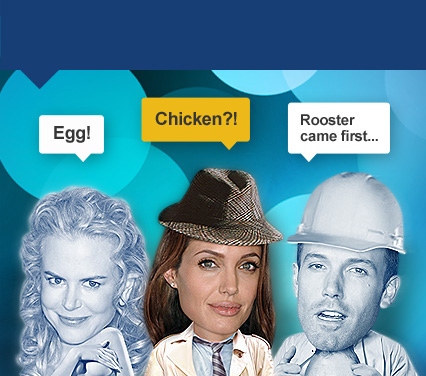
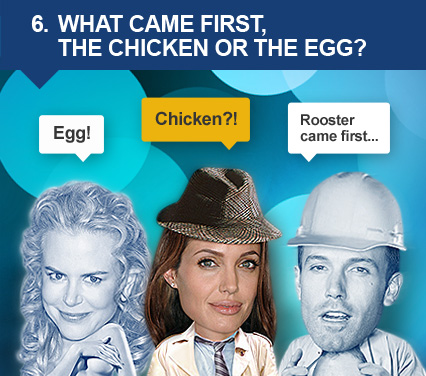
[ADD] FAQ new images;

diff --git a/pp/faq-more.php b/pp/faq-more.php
@@ -1,11 +1,11 @@
 <script>
 	$(document).ready(function() {
 		$('area').mouseover(function() {
-			$('#FAQ-6').attr('src', 'images/FAQ-6-' + $(this).attr('celeb') + '.jpg');
+			$('#FAQ-' + $(this).attr('celeb')).attr('src', 'images/FAQ-' + $(this).attr('celeb') + '-' + $(this).attr('celebOrder') + '.jpg');
 		});
 
 		$('area').mouseout(function() {
-			$('#FAQ-6').attr('src', 'images/FAQ-6.jpg');
+			$('#FAQ-' + $(this).attr('celeb')).attr('src', 'images/FAQ-' + $(this).attr('celeb') + '.jpg');
 		});
 
 		$.fn.preload = function() {
@@ -14,7 +14,7 @@
 			});
 		}
 
-		$(['FAQ-6-1.jpg', 'FAQ-6-2.jpg', 'FAQ-6-3.jpg']).preload();
+		$(['FAQ-6-1.jpg', 'FAQ-6-2.jpg', 'FAQ-6-3.jpg', 'FAQ-7-1.jpg', 'FAQ-7-2.jpg', 'FAQ-7-3.jpg']).preload();
 	});
 </script>
 <div class="clear"></div>
@@ -30,15 +30,13 @@
 		<div style="padding: 20px 81px 0 82px"><img src="images/faq_like_01.jpg"></div>
 	</div>
 	<div class="faqQuestion faqQuestionRight">
-<!--		<div style="background: url(images/faq_pitanje_006.jpg) no-repeat; background-position: 15px 15px; width: 441px; height: 376px;">-->
 		<div style="padding: 15px">
 			<img src="images/FAQ-6.jpg" border="0" usemap="#Map6" id="FAQ-6" />
 			<map name="Map6" id="Map6">
-				<area shape="rect" coords="0,70,149,376" href="#" alt="Nicole Kidman" celeb="1" />
-				<area shape="rect" coords="149,70,278,376" href="#" alt="Angelina Jolie" celeb="2" />
-				<area shape="rect" coords="278,70,426,376" href="#" alt="Ben Affleck" celeb="3" />
+				<area shape="rect" coords="0,70,149,376" href="#" alt="Nicole Kidman" title="Nicole Kidman" celeb="6" celebOrder="1" />
+				<area shape="rect" coords="149,70,278,376" href="#" alt="Angelina Jolie" title="Angelina Jolie" celeb="6" celebOrder="2" />
+				<area shape="rect" coords="278,70,426,376" href="#" alt="Ben Affleck" title="Ben Affleck" celeb="6" celebOrder="3" />
 			</map>
-<!--			<div class="faqQuestionTitle" style="padding-top: 24px">6. WHAT CAME FIRST, THE<br>&nbsp;&nbsp;&nbsp;&nbsp;CHICKEN OR THE EGG?</div>-->
 		</div>
 		<div class="faqLike3">
 			<div style="float: left; width: 112px; padding-left: 30px;"><img src="images/faq_like_02.jpg"></div>
@@ -49,8 +47,13 @@
 	<div class="clear"></div>
 	<div class="faqSeparator"></div>
 	<div class="faqQuestion">
-		<div style="background: url(images/faq_pitanje_007.jpg) no-repeat; background-position: 15px 15px; width: 441px; height: 376px;">
-			<div class="faqQuestionTitle" style="padding-top: 24px">7. HOW DOES ONE BECOME<br>&nbsp;&nbsp;&nbsp;&nbsp;RICH?</div>
+		<div style="padding: 15px">
+			<img src="images/FAQ-7.jpg" border="0" usemap="#Map7" id="FAQ-7" />
+			<map name="Map7" id="Map7">
+				<area shape="rect" coords="0,70,149,376" href="#" alt="Christina Aguilera" title="Christina Aguilera" celeb="7" celebOrder="1" />
+				<area shape="rect" coords="149,70,278,376" href="#" alt="Megan Fox" title="Megan Fox" celeb="7" celebOrder="2" />
+				<area shape="rect" coords="278,70,426,376" href="#" alt="Will Smith" title="Will Smith" celeb="7" celebOrder="3" />
+			</map>
 		</div>
 		<div class="faqLike3">
 			<div style="float: left; width: 112px; padding-left: 30px;"><img src="images/faq_like_02.jpg"></div>
